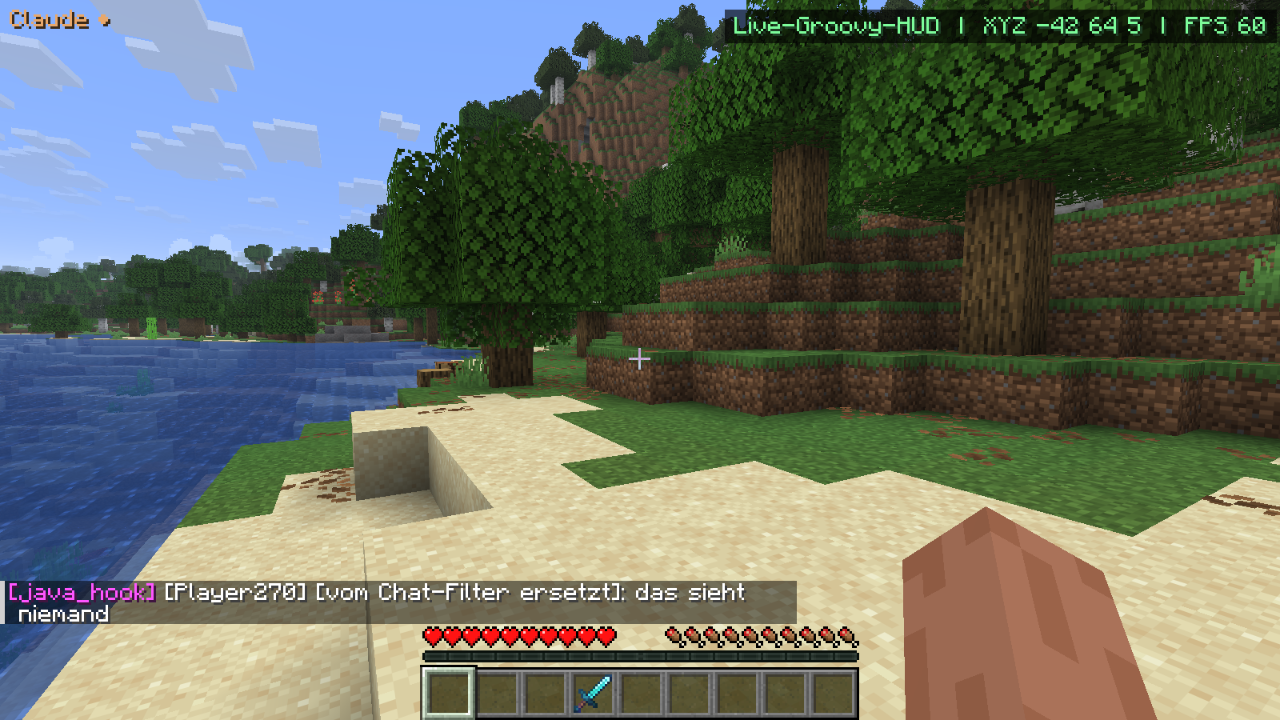
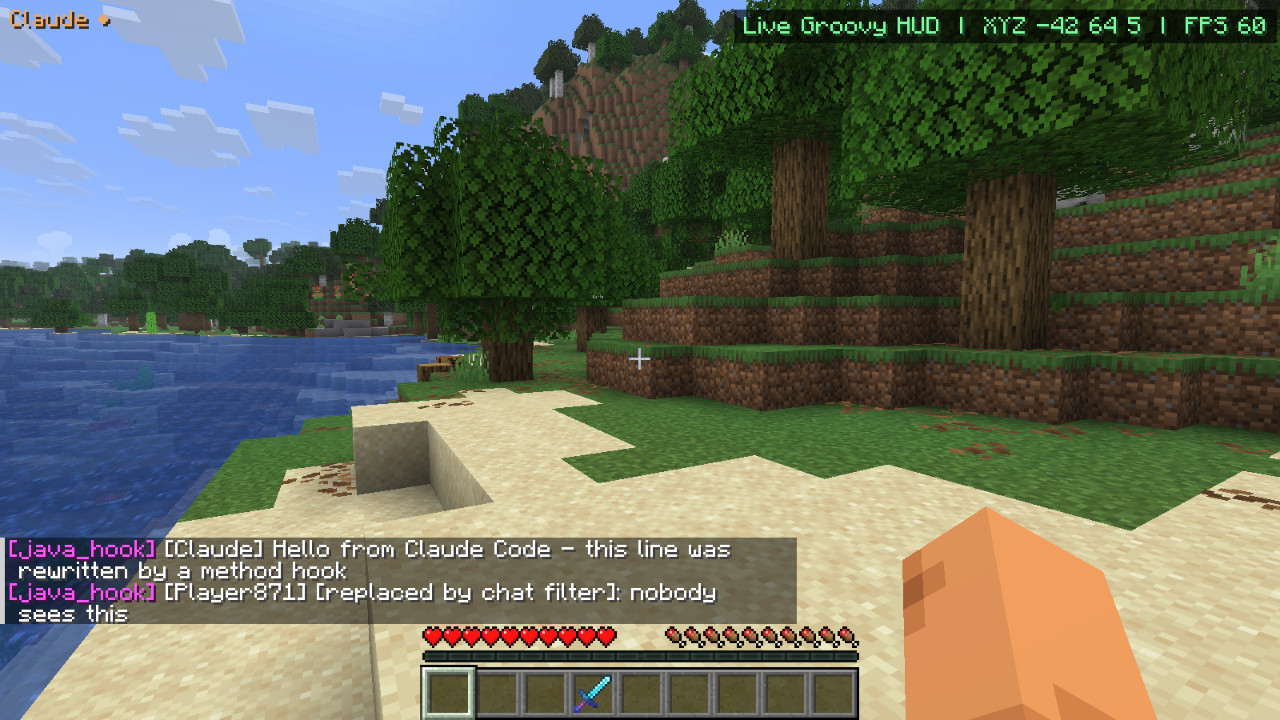
Translate README, screenshot and test data to English

diff --git a/src/test/java/dev/leon/claudemcp/MemoryAndEventsTest.java b/src/test/java/dev/leon/claudemcp/MemoryAndEventsTest.java
@@ -19,20 +19,20 @@ class MemoryAndEventsTest {
 	@Test
 	void memoryPersistsAndSearches() {
 		MemoryStore m = new MemoryStore(tmp);
-		m.put("sp-Welt 1", "note", null, "Eisenmine bei der Schlucht", List.of("mine"), null);
-		m.put("sp-Welt 1", "kv", "home", "Haus am See", null, null);
-		m.put("sp-Welt 1", "kv", "home", "Neues Haus im Wald", null, null); // replaces
-		m.put("sp-Welt 1", "waypoint", "base", null, null, Map.of("x", 1, "y", 64, "z", -3));
+		m.put("sp-World 1", "note", null, "Iron mine next to the ravine", List.of("mine"), null);
+		m.put("sp-World 1", "kv", "home", "House by the lake", null, null);
+		m.put("sp-World 1", "kv", "home", "New house in the forest", null, null); // replaces
+		m.put("sp-World 1", "waypoint", "base", null, null, Map.of("x", 1, "y", 64, "z", -3));
 
 		MemoryStore again = new MemoryStore(tmp);
-		assertEquals("Neues Haus im Wald", again.get("sp-Welt 1", "home").text);
-		assertEquals(1, again.search("sp-Welt 1", "eisen", null, null, 10).size());
-		assertEquals(1, again.search("sp-Welt 1", null, List.of("mine"), null, 10).size());
-		assertEquals(1, again.search("sp-Welt 1", null, null, "waypoint", 10).size());
-		assertEquals(3, again.search("sp-Welt 1", null, null, null, 10).size());
-		assertTrue(again.delete("sp-Welt 1", "base"));
-		assertNull(again.get("sp-Welt 1", "base"));
-		assertTrue(again.scopes().contains(MemoryStore.sanitize("sp-Welt 1")));
+		assertEquals("New house in the forest", again.get("sp-World 1", "home").text);
+		assertEquals(1, again.search("sp-World 1", "iron", null, null, 10).size());
+		assertEquals(1, again.search("sp-World 1", null, List.of("mine"), null, 10).size());
+		assertEquals(1, again.search("sp-World 1", null, null, "waypoint", 10).size());
+		assertEquals(3, again.search("sp-World 1", null, null, null, 10).size());
+		assertTrue(again.delete("sp-World 1", "base"));
+		assertNull(again.get("sp-World 1", "base"));
+		assertTrue(again.scopes().contains(MemoryStore.sanitize("sp-World 1")));
 		assertTrue(again.search("global", null, null, null, 10).isEmpty());
 	}
 

diff --git a/src/gametest/java/dev/leon/claudemcp/gametest/McpClientGameTest.java b/src/gametest/java/dev/leon/claudemcp/gametest/McpClientGameTest.java
@@ -58,8 +58,8 @@ public class McpClientGameTest implements FabricClientGameTest {
 			JsonObject go = tool("goto", "{\"x\":" + (x + 4) + ",\"y\":" + y + ",\"z\":" + z + ",\"wait\":30}");
 			check("done".equals(go.get("status").getAsString()), "goto: " + go);
 
-			tool("memory_put", "{\"kind\":\"kv\",\"key\":\"t\",\"text\":\"hallo\"}");
-			check("hallo".equals(tool("memory_get", "{\"id\":\"t\"}").get("text").getAsString()), "memory");
+			tool("memory_put", "{\"kind\":\"kv\",\"key\":\"t\",\"text\":\"hello\"}");
+			check("hello".equals(tool("memory_get", "{\"id\":\"t\"}").get("text").getAsString()), "memory");
 
 			JsonObject s = tool("script_eval", "{\"sync\":true,\"code\":\"player.blockPosition().x\"}");
 			check(s.get("value").getAsInt() >= x + 3, "script result " + s);
@@ -75,10 +75,10 @@ public class McpClientGameTest implements FabricClientGameTest {
 			tool("java_hook_remove", "{\"id\":\"all\"}");
 
 			// NBT: give an item with components and read it back
-			tool("nbt_give", "{\"snbt\":\"{id:\\\"minecraft:stick\\\",count:2,components:{\\\"minecraft:custom_name\\\":\\\"Zauberstab\\\"}}\",\"slot\":\"8\"}");
+			tool("nbt_give", "{\"snbt\":\"{id:\\\"minecraft:stick\\\",count:2,components:{\\\"minecraft:custom_name\\\":\\\"Magic Wand\\\"}}\",\"slot\":\"8\"}");
 			ctx.waitTicks(5);
 			JsonObject item = tool("nbt_get", "{\"target\":\"item\",\"slot\":\"8\"}");
-			check(item.get("snbt").getAsString().contains("Zauberstab"), "nbt item " + item);
+			check(item.get("snbt").getAsString().contains("Magic Wand"), "nbt item " + item);
 
 			// chat filter rule (outgoing rewrite) - just registration/listing here
 			tool("chat_rule_add", "{\"pattern\":\"x\",\"id\":\"gt\"}");

diff --git a/README.md b/README.md
@@ -2,7 +2,7 @@
 
 # Claude MCP
 
-**Dein Minecraft-Client als MCP-Server – gesteuert von Claude Code, opencode oder jedem anderen MCP-Client.**
+**Turn your Minecraft client into an MCP server – controlled by Claude Code, opencode or any other MCP client.**
 
 [![Minecraft 26.3](https://img.shields.io/badge/Minecraft-26.3-62B47A?style=for-the-badge&logo=minecraft&logoColor=white)](https://www.minecraft.net/)
 [![Fabric](https://img.shields.io/badge/Fabric-0.20.1-DBD0B4?style=for-the-badge)](https://fabricmc.net/)
@@ -11,64 +11,64 @@
 [![License](https://img.shields.io/badge/License-Apache_2.0-blue?style=for-the-badge)](LICENSE)
 [![Release](https://img.shields.io/github/v/release/Hemiize/mc-claude-mcp?style=for-the-badge&label=Download)](https://github.com/Hemiize/mc-claude-mcp/releases/latest)
 
-<img src="docs/screenshot-goto.png" alt="Claude läuft per goto durch die Welt, das HUD zeigt den laufenden Task" width="860">
+<img src="docs/screenshot-goto.png" alt="Claude walking through the world with goto, the HUD shows the running task" width="860">
 
-*Claude läuft per Pathfinder durch die Welt – oben links zeigt das HUD, was gerade passiert.*
+*Claude walks through the world using its pathfinder – the HUD in the top left shows what is happening.*
 
 </div>
 
 ---
 
-## Was ist das?
+## What is this?
 
-Eine clientseitige **Fabric-Mod**, die in Minecraft einen **MCP-Server** startet. Ein KI-Agent kann damit den laufenden Client komplett übernehmen. Er sieht die Welt und läuft, baut ab, baut, craftet und kämpft. Er merkt sich Orte pro Welt. Und er greift live in den Code des Spiels ein: Java-Methoden aufrufen, Groovy-Code ausführen, **beliebige Methoden zur Laufzeit hooken**, den Chat filtern und NBT bearbeiten.
+A client-side **Fabric mod** that starts an **MCP server** inside Minecraft. An AI agent can then take full control of the running client. It sees the world, walks, mines, builds, crafts and fights. It remembers places per world. And it can reach into the game's code live: call Java methods, run Groovy code, **hook any method at runtime**, filter the chat and edit NBT.
 
-> „Hau den nächsten Baum um, bau eine Werkbank und merk dir, wo sie steht.“
-> „Hook `LivingEntity.getHealth` und zeig mir, wer wie oft abgefragt wird.“
-> „Ersetze jedes ‚lol‘ im Chat durch ‚😂‘.“
+> "Chop down the nearest tree, build a crafting table and remember where it is."
+> "Hook `LivingEntity.getHealth` and show me who calls it how often."
+> "Replace every 'lol' in the chat with '😂'."
 
 <div align="center">
-<img src="docs/screenshot-hooks.png" alt="Live-Groovy-HUD, Methoden-Hook und Chat-Filter gleichzeitig aktiv" width="860">
+<img src="docs/screenshot-hooks.png" alt="Live Groovy HUD, method hook and chat filter active at the same time" width="860">
 
-*Gleichzeitig aktiv: ein Live-Groovy-HUD (oben rechts), ein Methoden-Hook, der Chatzeilen umschreibt (`[java_hook]`), und ein Chat-Filter.*
+*Active at the same time: a live Groovy HUD (top right), a method hook that rewrites chat lines (`[java_hook]`) and a chat filter.*
 </div>
 
 ## Features
 
 | | |
 |---|---|
-| 🧭 **Wahrnehmung** | Zustand als JSON (Position, Leben, Hunger, Blickziel, Biom …), Blöcke und Entities in der Umgebung, Inventar, GUI-Inhalte, Screenshots |
-| 🚶 **Bewegung** | Eigener A*-Pathfinder: Laufen, Springen, Fallen, Schwimmen, Klettern, Graben durch Hindernisse. Schutz gegen Ertrinken und zu wenig Leben |
-| ⛏ **Aktionen** | Abbauen mit automatischer Werkzeugwahl und Aufsammeln, Platzieren, Interagieren, Craften über das Rezeptbuch, Kämpfen, Folgen, GUI-Klicks, Tippen |
-| ⏱ **Tasks** | Lange Aktionen laufen als Task mit ID, Fortschritt, Abbruch und Not-Stopp (`End`-Taste) |
-| 🧠 **Memory** | Notizen, Key/Value-Einträge und Wegpunkte, getrennt pro Welt bzw. Server, als JSON gespeichert |
-| ☕ **Reflection** | Jede Klasse und jedes Objekt des Spiels: Felder lesen und schreiben, Methoden aufrufen, Objekte erzeugen (Mojang-Namen) |
-| 📜 **Groovy** | Live-Code im Spiel, synchron im Client-Thread oder als abbrechbarer Task, gespeicherte Scripts, Event-Hooks (Tick, Chat, Schaden, HUD, Tasten …) |
-| 🪝 **Methoden-Hooks** | Jede Methode zur Laufzeit hooken (Java-Agent + Byte Buddy): Aufrufe mitschneiden, Argumente ändern, Rückgabewerte ersetzen, Aufrufe abbrechen |
-| 💬 **Chat** | Lesen per Event-Stream, Senden, Filtern und Umschreiben von ein- und ausgehenden Nachrichten (Regeln oder Groovy) |
-| 🏷 **NBT-Editor** | Kisten, Schilder, Spawner, Entities, Spieler und Items mit Komponenten lesen und bearbeiten, Pfade wie bei `/data` |
+| 🧭 **Perception** | State as JSON (position, health, hunger, crosshair target, biome …), nearby blocks and entities, inventory, GUI contents, screenshots |
+| 🚶 **Movement** | Custom A* pathfinder: walking, jumping, falling, swimming, climbing, digging through obstacles. Protection against drowning and low health |
+| ⛏ **Actions** | Mining with automatic tool choice and item pickup, placing, interacting, crafting via the recipe book, fighting, following, GUI clicks, typing |
+| ⏱ **Tasks** | Long actions run as tasks with ID, progress, cancellation and an emergency stop (`End` key) |
+| 🧠 **Memory** | Notes, key/value entries and waypoints, separate per world or server, stored as JSON |
+| ☕ **Reflection** | Every class and object of the game: read and write fields, call methods, create objects (Mojang names) |
+| 📜 **Groovy** | Live code inside the game, synchronously on the client thread or as a cancellable task, saved scripts, event hooks (tick, chat, damage, HUD, keys …) |
+| 🪝 **Method hooks** | Hook any method at runtime (Java agent + Byte Buddy): trace calls, change arguments, replace return values, cancel calls |
+| 💬 **Chat** | Read via event stream, send, filter and rewrite incoming and outgoing messages (rules or Groovy) |
+| 🏷 **NBT editor** | Read and edit chests, signs, spawners, entities, the player and items with components, paths like in `/data` |
 
-## Schnellstart
+## Quick start
 
-### 1. Mod installieren
+### 1. Install the mod
 
-Lege in einer **Fabric-Instanz für Minecraft 26.3** (z. B. mit [Prism Launcher](https://prismlauncher.org/)) diese Dateien in `mods/`:
+Put these files into `mods/` of a **Fabric instance for Minecraft 26.3** (e.g. with [Prism Launcher](https://prismlauncher.org/)):
 
-- `claude-mcp-<version>.jar` – [**aktuelles Release herunterladen**](https://github.com/Hemiize/mc-claude-mcp/releases/latest) oder selbst bauen mit `.\gradlew build` (die Jar liegt dann unter `build/libs/`)
+- `claude-mcp-<version>.jar` – [**download the latest release**](https://github.com/Hemiize/mc-claude-mcp/releases/latest) or build it yourself with `.\gradlew build` (the jar ends up in `build/libs/`)
 - [Fabric API](https://modrinth.com/mod/fabric-api) **≥ 0.165.0**
 
-Starte Minecraft einmal. Dabei werden `config/claudemcp/token.txt` und `config.json` angelegt.
+Start Minecraft once. This creates `config/claudemcp/token.txt` and `config.json`.
 
-### 2a. Mit Claude Code verbinden
+### 2a. Connect Claude Code
 
 ```powershell
-.\register.ps1                                         # sucht die Prism-Instanz "Fabric 26.3"
-.\register.ps1 -ConfigDir "<instanz>\minecraft\config\claudemcp"
+.\register.ps1                                         # looks for the Prism instance "Fabric 26.3"
+.\register.ps1 -ConfigDir "<instance>\minecraft\config\claudemcp"
 ```
 
-Das Skript trägt den Server als `minecraft` im User-Scope ein. Optional kopierst du den Skill [`skill/minecraft-control`](skill/minecraft-control/SKILL.md) nach `~/.claude/skills/`. Er bringt Claude bei, wie die Tools sinnvoll zusammenspielen.
+The script registers the server as `minecraft` in the user scope. Optionally copy the skill [`skill/minecraft-control`](skill/minecraft-control/SKILL.md) to `~/.claude/skills/`. It teaches Claude how the tools work together.
 
-### 2b. Mit opencode verbinden
+### 2b. Connect opencode
 
 In `~/.config/opencode/opencode.json`:
 
@@ -77,53 +77,53 @@ In `~/.config/opencode/opencode.json`:
   "minecraft": {
     "type": "remote",
     "url": "http://127.0.0.1:25599/mcp",
-    "headers": { "Authorization": "Bearer {file:<instanz>/minecraft/config/claudemcp/token.txt}" },
+    "headers": { "Authorization": "Bearer {file:<instance>/minecraft/config/claudemcp/token.txt}" },
     "enabled": true
   }
 }
 ```
 
-> 💡 **Tipp für lokale Modelle:** 73 Tool-Beschreibungen kosten viel Kontext. Schalte nicht benötigte Tools über `"tools": { "minecraft_goto": false, … }` ab.
+> 💡 **Tip for local models:** 73 tool descriptions take up a lot of context. Disable the tools you don't need with `"tools": { "minecraft_goto": false, … }`.
 
-### 3. Loslegen
+### 3. Play
 
-Minecraft starten, eine Welt betreten und dem Agenten sagen, was er tun soll. Der Server existiert nur, solange das Spiel läuft.
+Start Minecraft, join a world and tell the agent what to do. The server only exists while the game is running.
 
-## Im Spiel
+## In game
 
 | | |
 |---|---|
-| **HUD** (oben links) | zeigt laufende Tasks und eingehende MCP-Anfragen |
-| **`End`** | stoppt sofort alle Tasks und Scripts (unter *Steuerung* umbelegbar) |
-| **Eigene Eingabe** | WASD, Springen und Klicks brechen Bewegungs-Tasks ab, du hast immer Vorrang |
+| **HUD** (top left) | shows running tasks and incoming MCP requests |
+| **`End`** | immediately stops all tasks and scripts (rebindable under *Controls*) |
+| **Your own input** | WASD, jumping and clicks cancel movement tasks – you always take precedence |
 
-## Methoden-Hooks zur Laufzeit
+## Runtime method hooks
 
-`java_hook` patcht jede Methode des Spiels oder einer Mod, **ohne Neustart**. Ein Java-Agent hängt sich per Self-Attach an den laufenden Prozess, und Byte Buddy schreibt die Klasse per Retransformation um.
+`java_hook` patches any method of the game or of a mod, **without a restart**. A Java agent self-attaches to the running process and Byte Buddy rewrites the class via retransformation.
 
 ```jsonc
-// Nur mitschneiden, wer getHealth() aufruft – Ergebnisse mit java_hook_calls
+// Only trace who calls getHealth() – read the results with java_hook_calls
 { "class": "LivingEntity", "method": "getHealth", "max_calls": 100 }
 
-// Rückgabewert ersetzen
+// Replace the return value
 { "class": "LivingEntity", "method": "getHealth",
   "after": "if (self instanceof net.minecraft.client.player.LocalPlayer) hook.setResult(7.5)" }
 
-// Argumente umschreiben
+// Rewrite arguments
 { "class": "ChatComponent", "method": "addClientSystemMessage",
   "before": "args[0] = net.minecraft.network.chat.Component.literal('[hook] ' + args[0].string)" }
 ```
 
-- **`before`**: Variablen `self`, `args`, `method`, `hook`. Mit `hook.cancel(wert)` wird das Original übersprungen.
-- **`after`**: zusätzlich `result` und `thrown`. Mit `hook.setResult(wert)` wird der Rückgabewert ersetzt.
-- Entfernt man den letzten Hook einer Methode, ist der Original-Bytecode wieder da.
-- Hooks laufen auf dem aufrufenden Thread mit 50 ms Limit und schalten sich nach 5 Fehlern selbst ab.
-- JDK-Klassen und die Mod selbst sind tabu. Falls sich der Agent nicht anhängen kann, hilft das JVM-Argument `-Djdk.attach.allowAttachSelf=true`.
+- **`before`**: variables `self`, `args`, `method`, `hook`. `hook.cancel(value)` skips the original method.
+- **`after`**: additionally `result` and `thrown`. `hook.setResult(value)` replaces the return value.
+- Removing the last hook of a method restores the original bytecode.
+- Hooks run on the calling thread with a 50 ms limit and disable themselves after 5 errors.
+- JDK classes and the mod itself can't be hooked. If the agent cannot attach, the JVM argument `-Djdk.attach.allowAttachSelf=true` helps.
 
-## Groovy live im Spiel
+## Live Groovy in the game
 
 ```groovy
-// nächste 5 Stämme fällen
+// chop the nearest 5 logs
 5.times {
   def log = api.findBlocks("oak_log", 24, 1)
   if (!log) return
@@ -133,96 +133,96 @@ Minecraft starten, eine Welt betreten und dem Agenten sagen, was er tun soll. De
 api.inventory().items.findAll { it.id.endsWith("_log") }
 ```
 
-Verfügbar sind `mc`, `player`, `level`, `gameMode`, `screen`, `api`, `memory`, `args` und `out`. Game-Objekte fasst man in Worker-Scripts innerhalb von `api.onMain { … }` an. Mit `sync: true` läuft kurzer Code direkt im Client-Thread.
+Available variables: `mc`, `player`, `level`, `gameMode`, `screen`, `api`, `memory`, `args` and `out`. In worker scripts, touch game objects inside `api.onMain { … }`. With `sync: true` short code runs directly on the client thread.
 
-## NBT-Editor
+## NBT editor
 
 ```jsonc
-// Kiste umbenennen und füllen
+// rename and fill a chest
 nbt_set  { "target": "block", "x": -12, "y": 70, "z": 17,
-           "snbt": "{CustomName:\"Claudes Kiste\",Items:[{Slot:0b,id:\"minecraft:diamond\",count:42}]}" }
+           "snbt": "{CustomName:\"Claude's chest\",Items:[{Slot:0b,id:\"minecraft:diamond\",count:42}]}" }
 
-// Item mit Komponenten erzeugen
+// create an item with components
 nbt_give { "snbt": "{id:\"minecraft:diamond_sword\",count:1,components:{\"minecraft:custom_name\":\"Excalibur\"}}" }
 ```
 
 | | Singleplayer | Server |
 |---|---|---|
-| Blöcke und Entities | direkt auf dem integrierten Server | über `/data`-Befehle (OP nötig) |
-| Items | direkt | nur im Kreativmodus (Creative-Paket) |
-| Spieler | direkt | nicht möglich |
+| Blocks and entities | directly on the integrated server | via `/data` commands (OP required) |
+| Items | directly | creative mode only (creative inventory packet) |
+| Player | directly | not possible |
 
-## Architektur
+## Architecture
 
 ```mermaid
 flowchart LR
-    A[Claude Code / opencode] -- "Streamable HTTP + Bearer-Token" --> B["Jetty + MCP Java SDK<br/>127.0.0.1:25599"]
-    subgraph Minecraft-Client
-        B --> C[73 Tools]
-        C --> D[Task-Manager<br/>Tick-Tasks & Worker]
-        C --> E[Reflection<br/>Handles]
-        C --> F[Groovy<br/>Scripts & Hooks]
-        C --> G[Java-Agent<br/>Byte Buddy]
-        D --> H[(Client-Thread)]
+    A[Claude Code / opencode] -- "Streamable HTTP + bearer token" --> B["Jetty + MCP Java SDK<br/>127.0.0.1:25599"]
+    subgraph Minecraft client
+        B --> C[73 tools]
+        C --> D[Task manager<br/>tick tasks & workers]
+        C --> E[Reflection<br/>handles]
+        C --> F[Groovy<br/>scripts & hooks]
+        C --> G[Java agent<br/>Byte Buddy]
+        D --> H[(Client thread)]
         E --> H
         F --> H
         G -.retransform.-> H
     end
 ```
 
-## Sicherheit
+## Security
 
-- Der Server lauscht **nur auf `127.0.0.1`** und verlangt ein zufälliges **Bearer-Token**.
-- Scripts und Reflection bedeuten volle Codeausführung im Spielprozess. Beides lässt sich in `config/claudemcp/config.json` abschalten (`enableScripts`, `enableReflection`).
-- Die Mod ist rein clientseitig und funktioniert in Singleplayer und auf Servern. **Anticheat-Umgehung ist bewusst nicht eingebaut.** Halte dich an die Regeln der Server, auf denen du spielst.
+- The server listens **only on `127.0.0.1`** and requires a random **bearer token**.
+- Scripts and reflection mean full code execution in the game process. Both can be disabled in `config/claudemcp/config.json` (`enableScripts`, `enableReflection`).
+- The mod is purely client-side and works in singleplayer and on servers. **Anti-cheat bypasses are deliberately not included.** Follow the rules of the servers you play on.
 
 <details>
-<summary><b>📋 Alle 73 Tools</b></summary>
+<summary><b>📋 All 73 tools</b></summary>
 
-| Gruppe | Tools |
+| Group | Tools |
 |---|---|
-| Zustand | `get_state`, `get_blocks`, `find_blocks`, `get_entities`, `get_inventory`, `get_screen`, `screenshot` |
-| Aktionen | `goto`, `follow`, `look_at`, `set_rotation`, `move`, `mine_block`, `place_block`, `interact_block`, `interact_entity`, `use_item`, `attack`, `select_slot`, `click_slot`, `click_widget`, `click_at`, `type_text`, `press_key`, `open_inventory`, `close_screen`, `craft`, `list_recipes`, `chat`, `run_command`, `client_message` |
+| State | `get_state`, `get_blocks`, `find_blocks`, `get_entities`, `get_inventory`, `get_screen`, `screenshot` |
+| Actions | `goto`, `follow`, `look_at`, `set_rotation`, `move`, `mine_block`, `place_block`, `interact_block`, `interact_entity`, `use_item`, `attack`, `select_slot`, `click_slot`, `click_widget`, `click_at`, `type_text`, `press_key`, `open_inventory`, `close_screen`, `craft`, `list_recipes`, `chat`, `run_command`, `client_message` |
 | Tasks | `task_status`, `task_wait`, `task_cancel`, `stop_all` |
-| Ereignisse | `get_events` (mit Long-Polling), `get_log` |
+| Events | `get_events` (with long polling), `get_log` |
 | Memory | `memory_put`, `memory_get`, `memory_search`, `memory_delete`, `waypoint_set`, `waypoint_list`, `waypoint_delete`, `waypoint_goto` |
 | Reflection | `java_find_class`, `java_describe`, `java_get_field`, `java_set_field`, `java_invoke`, `java_new`, `handle_release` |
-| Script | `script_eval`, `script_save`, `script_run`, `script_list`, `script_get`, `script_delete`, `hook_register`, `hook_list`, `hook_remove` |
-| Methoden-Hooks | `java_hook`, `java_hook_calls`, `java_hook_list`, `java_hook_remove`, `java_hook_enable` |
-| Chat-Filter | `chat_rule_add`, `chat_rule_list`, `chat_rule_remove` (+ Hook-Events `chat_in`/`chat_out`) |
+| Scripts | `script_eval`, `script_save`, `script_run`, `script_list`, `script_get`, `script_delete`, `hook_register`, `hook_list`, `hook_remove` |
+| Method hooks | `java_hook`, `java_hook_calls`, `java_hook_list`, `java_hook_remove`, `java_hook_enable` |
+| Chat filter | `chat_rule_add`, `chat_rule_list`, `chat_rule_remove` (+ hook events `chat_in`/`chat_out`) |
 | NBT | `nbt_get`, `nbt_set`, `nbt_remove`, `nbt_give` |
 
-Längere Aktionen laufen als Task. Mit `wait` (Sekunden) wartet der Aufruf direkt auf das Ergebnis, sonst kommt sofort eine Task-ID zurück.
+Long actions run as tasks. With `wait` (seconds) the call waits for the result directly, otherwise it returns a task ID right away.
 
 </details>
 
 <details>
-<summary><b>🛠 Entwicklung</b></summary>
+<summary><b>🛠 Development</b></summary>
 
 ```powershell
-.\gradlew build                 # Jar + Unit-Tests (Pathfinder, Overloads, Memory/Events, NBT)
-.\gradlew runClient             # Dev-Client (run/), MCP auf Port 25599
-.\gradlew runClientGameTest     # End-to-End: echter Client, Testwelt, alle Kernfunktionen über MCP-HTTP
+.\gradlew build                 # jar + unit tests (pathfinder, overloads, memory/events, NBT)
+.\gradlew runClient             # dev client (run/), MCP on port 25599
+.\gradlew runClientGameTest     # end-to-end: real client, test world, all core features over MCP HTTP
 ```
 
 **Stack:**
 - Build: Gradle 9.8.2, Fabric Loom 1.19.3, Fabric API 0.165.2+26.3
-- Bibliotheken: MCP Java SDK 2.1.0, Jetty 12.1 (ee11), Groovy 5.1.3, Byte Buddy 1.18.17, alle als Jar-in-Jar in der Mod
-- JDK: Gradle sucht sich ein installiertes JDK 25 selbst (`gradle/gradle-daemon-jvm.properties`). Das Standard-Java des Systems darf älter sein.
+- Libraries: MCP Java SDK 2.1.0, Jetty 12.1 (ee11), Groovy 5.1.3, Byte Buddy 1.18.17, all bundled as jar-in-jar
+- JDK: Gradle finds an installed JDK 25 by itself (`gradle/gradle-daemon-jvm.properties`). The system's default Java may be older.
 
-**Besonderheiten von 26.3:**
-- **Mojang-Namen:** Der Code ist nicht mehr obfuskiert. Viele Klassen heißen anders als in 1.21, zum Beispiel `GuiGraphicsExtractor`, `mc.gui.screen()` und `Hud.toggle()`.
-- **Tastencodes:** Es sind SDL-Scancodes statt GLFW-Codes. Den richtigen Code liefert `InputConstants.getKey("key.keyboard.w")`.
-- **Buttons:** Synthetische `mouseClicked`-Events lösen Buttons nicht überall aus. `click_widget` ruft deshalb `onPress` auf.
-- **Threads:** Das MCP SDK erzeugt Reactor-Threads, die keine Daemon-Threads sind. Eine eigene Scheduler-Factory hält den Shutdown sauber.
+**Things worth knowing about 26.3:**
+- **Mojang names:** The code is no longer obfuscated. Many classes are named differently than in 1.21, e.g. `GuiGraphicsExtractor`, `mc.gui.screen()` and `Hud.toggle()`.
+- **Key codes:** They are SDL scancodes, not GLFW codes. `InputConstants.getKey("key.keyboard.w")` returns the right code.
+- **Buttons:** Synthetic `mouseClicked` events don't trigger buttons on every screen. `click_widget` therefore calls `onPress`.
+- **Threads:** The MCP SDK creates non-daemon Reactor threads. A custom scheduler factory keeps the shutdown clean.
 
 </details>
 
-## Lizenz und Namensnennung
+## License and attribution
 
 Copyright 2026 **[Hemiize](https://github.com/Hemiize)** · [Apache License 2.0](LICENSE)
 
 > [!IMPORTANT]
-> **Namensnennung ist Pflicht.** Wer dieses Projekt oder Teile davon weitergibt, zum Beispiel als Fork, Modpack oder eigene Mod, muss die Datei [NOTICE](NOTICE) mitliefern. Darin wird **Hemiize** als ursprünglicher Autor mit Link auf dieses Repository genannt (Abschnitt 4 der Apache-Lizenz).
+> **Attribution is required.** Anyone who redistributes this project or parts of it – as a fork, in a modpack or in their own mod – must include the [NOTICE](NOTICE) file. It credits **Hemiize** as the original author with a link to this repository (section 4 of the Apache License).
 
-Die mitgelieferten Bibliotheken behalten ihre eigenen Lizenzen (MCP Java SDK, Jetty, Groovy, Byte Buddy, Jackson, Reactor). *Minecraft* ist eine Marke von Mojang/Microsoft. Dieses Projekt ist inoffiziell und steht in keiner Verbindung zu Mojang, Microsoft oder Anthropic.
+The bundled libraries keep their own licenses (MCP Java SDK, Jetty, Groovy, Byte Buddy, Jackson, Reactor). *Minecraft* is a trademark of Mojang/Microsoft. This project is unofficial and not affiliated with Mojang, Microsoft or Anthropic.
